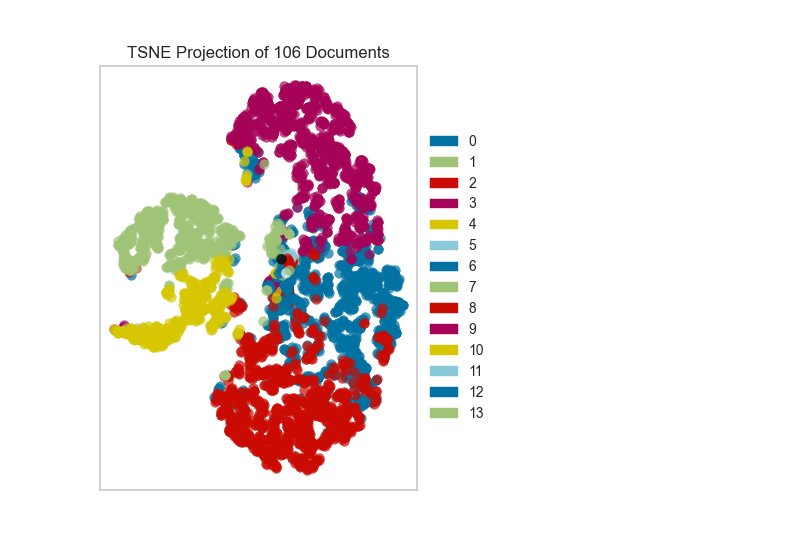
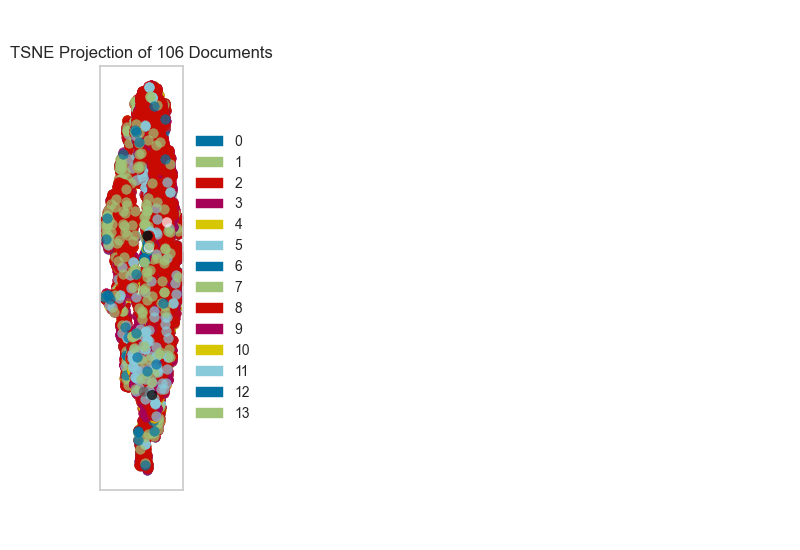
rerun to get valid tsne plots

Changed region(s): [[0.0312, 0.0618, 0.625, 0.8964]]

diff --git a/P3-UL/main.py b/P3-UL/main.py
@@ -243,6 +243,7 @@ def plot_elbow(X, k_range = None):
 def run_ann(data_train, label_train, data_test, label_test, algo_name, data_name, fig_name = None, show_plots = False,
             plot_learning = False, plot_val=False, val_param="max_iter",val_range=range(10,210,10), test=False,
             val_lab = "Iterations", grid_search=False, **kwargs):
+    start = time.time()
 
     if grid_search:
         # based off sklearn example for hp tuning
@@ -306,9 +307,12 @@ def run_ann(data_train, label_train, data_test, label_test, algo_name, data_name
     if test:
         print(f"ANN ({algo_name}) score: {clf.score(data_test, label_test)}")
 
+    print(f"ANN ({algo_name}) time: {time.time()-start:.2f}")
+
 
 def plot_tsne(data, labels):
-    tsne(data, labels, decompose_by=data.shape[1]-1, random_state=0)
+    plt.xlim((data.min()*2, data.max()*2))
+    tsne(data, labels, decompose_by=data.shape[1]-1, random_state=0, show=False)
 
 
 def run_k_means(data_train, label_train, data_test=None, k_range = None, n_clusters = None, tsne_lab = ""):
@@ -317,7 +321,7 @@ def run_k_means(data_train, label_train, data_test=None, k_range = None, n_clust
     # treat like MCC to narrow down optimal cluster number
     if n_clusters is None:
         plot_elbow(data_train, k_range)
-        return data_train
+        return data_train, data_test
 
     # with tuned number of clusters
     kmeans = KMeans(n_clusters=n_clusters, random_state=0).fit(data_train)
@@ -331,21 +335,16 @@ def run_k_means(data_train, label_train, data_test=None, k_range = None, n_clust
 
     plot_tsne(train_transform, label_pred)
     plt.savefig(f"kmeans_tsne_{tsne_lab}")
+    plot_tsne(train_transform, label_train)
+    plt.savefig(f"kmeans_tsne_{tsne_lab}_true")
 
     if data_test is None:
-        return transform_with_pred
+        return transform_with_pred, data_test
     else:
         test_transform = kmeans.transform(data_test)
         test_predict = kmeans.predict(data_test)
         return transform_with_pred,\
                np.append(test_transform, [[x] for x in test_predict], axis=1)
-
-    # TODO figure out TSNE
-    tsne = TSNE()
-    X_embedded = tsne.fit_transform(data_train)
-
-    sns.scatterplot(X_embedded[:, 0], X_embedded[:, 1], hue=label_train, legend='full',
-                    palette=sns.color_palette("bright", 3))
 
 
 def plot_bic_scores(data, n_components_range = None):
@@ -397,7 +396,7 @@ def run_em(data_train, label_train, data_test=None, n_components_range = None, n
 
     if n_components is None or covariance_type is None:
         plot_bic_scores(data_train, n_components_range)
-        return data_train
+        return data_train, data_test
 
     gmm = GaussianMixture(n_components=n_components, covariance_type=covariance_type, random_state=0).fit(data_train)
     label_pred = gmm.predict(data_train)
@@ -409,9 +408,11 @@ def run_em(data_train, label_train, data_test=None, n_components_range = None, n
 
     plot_tsne(data_train, label_pred)
     plt.savefig(f"em_tsne_{tsne_lab}")
+    plot_tsne(data_train, label_train)
+    plt.savefig(f"em_tsne_{tsne_lab}_true")
 
     if data_test is None:
-        return prediction
+        return prediction, None
     else:
         test_predict_prob = gmm.predict_proba(data_test)
         test_predict = gmm.predict(data_test)
@@ -702,24 +703,24 @@ if __name__ == '__main__':
     lda_1_train, lda_1_test = run_lda(data_train_1, label_train_1, data_test_1, solver="svd")
     lda_2_train, lda_2_test = run_lda(data_train_2, label_train_2, data_test_2, solver="svd")
 
-    plot_first_2_dim(pca_1_train, label_train_1, "pca 1")
-    plt.savefig("charts/pca_1_first_2_dim")
-    plot_first_2_dim(pca_2_train, label_train_2, "pca 2")
-    plt.savefig("charts/pca_2_first_2_dim")
-    plot_first_2_dim(ica_1_train, label_train_1, "ica 1")
-    plt.savefig("charts/ica_1_first_2_dim")
-    plot_first_2_dim(ica_2_train, label_train_2, "ica 2")
-    plt.savefig("charts/ica_2_first_2_dim")
-    plot_first_2_dim(rca_1_train, label_train_1, "rca 1")
-    plt.savefig("charts/rca_1_first_2_dim")
-    plot_first_2_dim(rca_2_train, label_train_2, "rca 2")
-    plt.savefig("charts/rca_2_first_2_dim")
-    plot_first_2_dim(lda_1_train, label_train_1, "lda 1")
-    plt.savefig("charts/lda_1_first_2_dim")
-    plot_first_2_dim(lda_2_train, label_train_2, "lda 2")
-    plt.savefig("charts/lda_2_first_2_dim")
-    # combination experiments, DR + clustering
-
+    # plot_first_2_dim(pca_1_train, label_train_1, "pca 1")
+    # plt.savefig("charts/pca_1_first_2_dim")
+    # plot_first_2_dim(pca_2_train, label_train_2, "pca 2")
+    # plt.savefig("charts/pca_2_first_2_dim")
+    # plot_first_2_dim(ica_1_train, label_train_1, "ica 1")
+    # plt.savefig("charts/ica_1_first_2_dim")
+    # plot_first_2_dim(ica_2_train, label_train_2, "ica 2")
+    # plt.savefig("charts/ica_2_first_2_dim")
+    # plot_first_2_dim(rca_1_train, label_train_1, "rca 1")
+    # plt.savefig("charts/rca_1_first_2_dim")
+    # plot_first_2_dim(rca_2_train, label_train_2, "rca 2")
+    # plt.savefig("charts/rca_2_first_2_dim")
+    # plot_first_2_dim(lda_1_train, label_train_1, "lda 1")
+    # plt.savefig("charts/lda_1_first_2_dim")
+    # plot_first_2_dim(lda_2_train, label_train_2, "lda 2")
+    # plt.savefig("charts/lda_2_first_2_dim")
+    # # combination experiments, DR + clustering
+    #
     # PCA
     pca_kmeans_1 = run_k_means(pca_1_train, label_train_1, n_clusters=3, tsne_lab="pca_1")
     pca_kmeans_2 = run_k_means(pca_2_train, label_train_2, n_clusters=5, tsne_lab="pca_2")
@@ -777,5 +778,4 @@ if __name__ == '__main__':
     plt.show()
     print()
     plt.close('all')
-    # TODO set up passing plot names to methods to save
 
